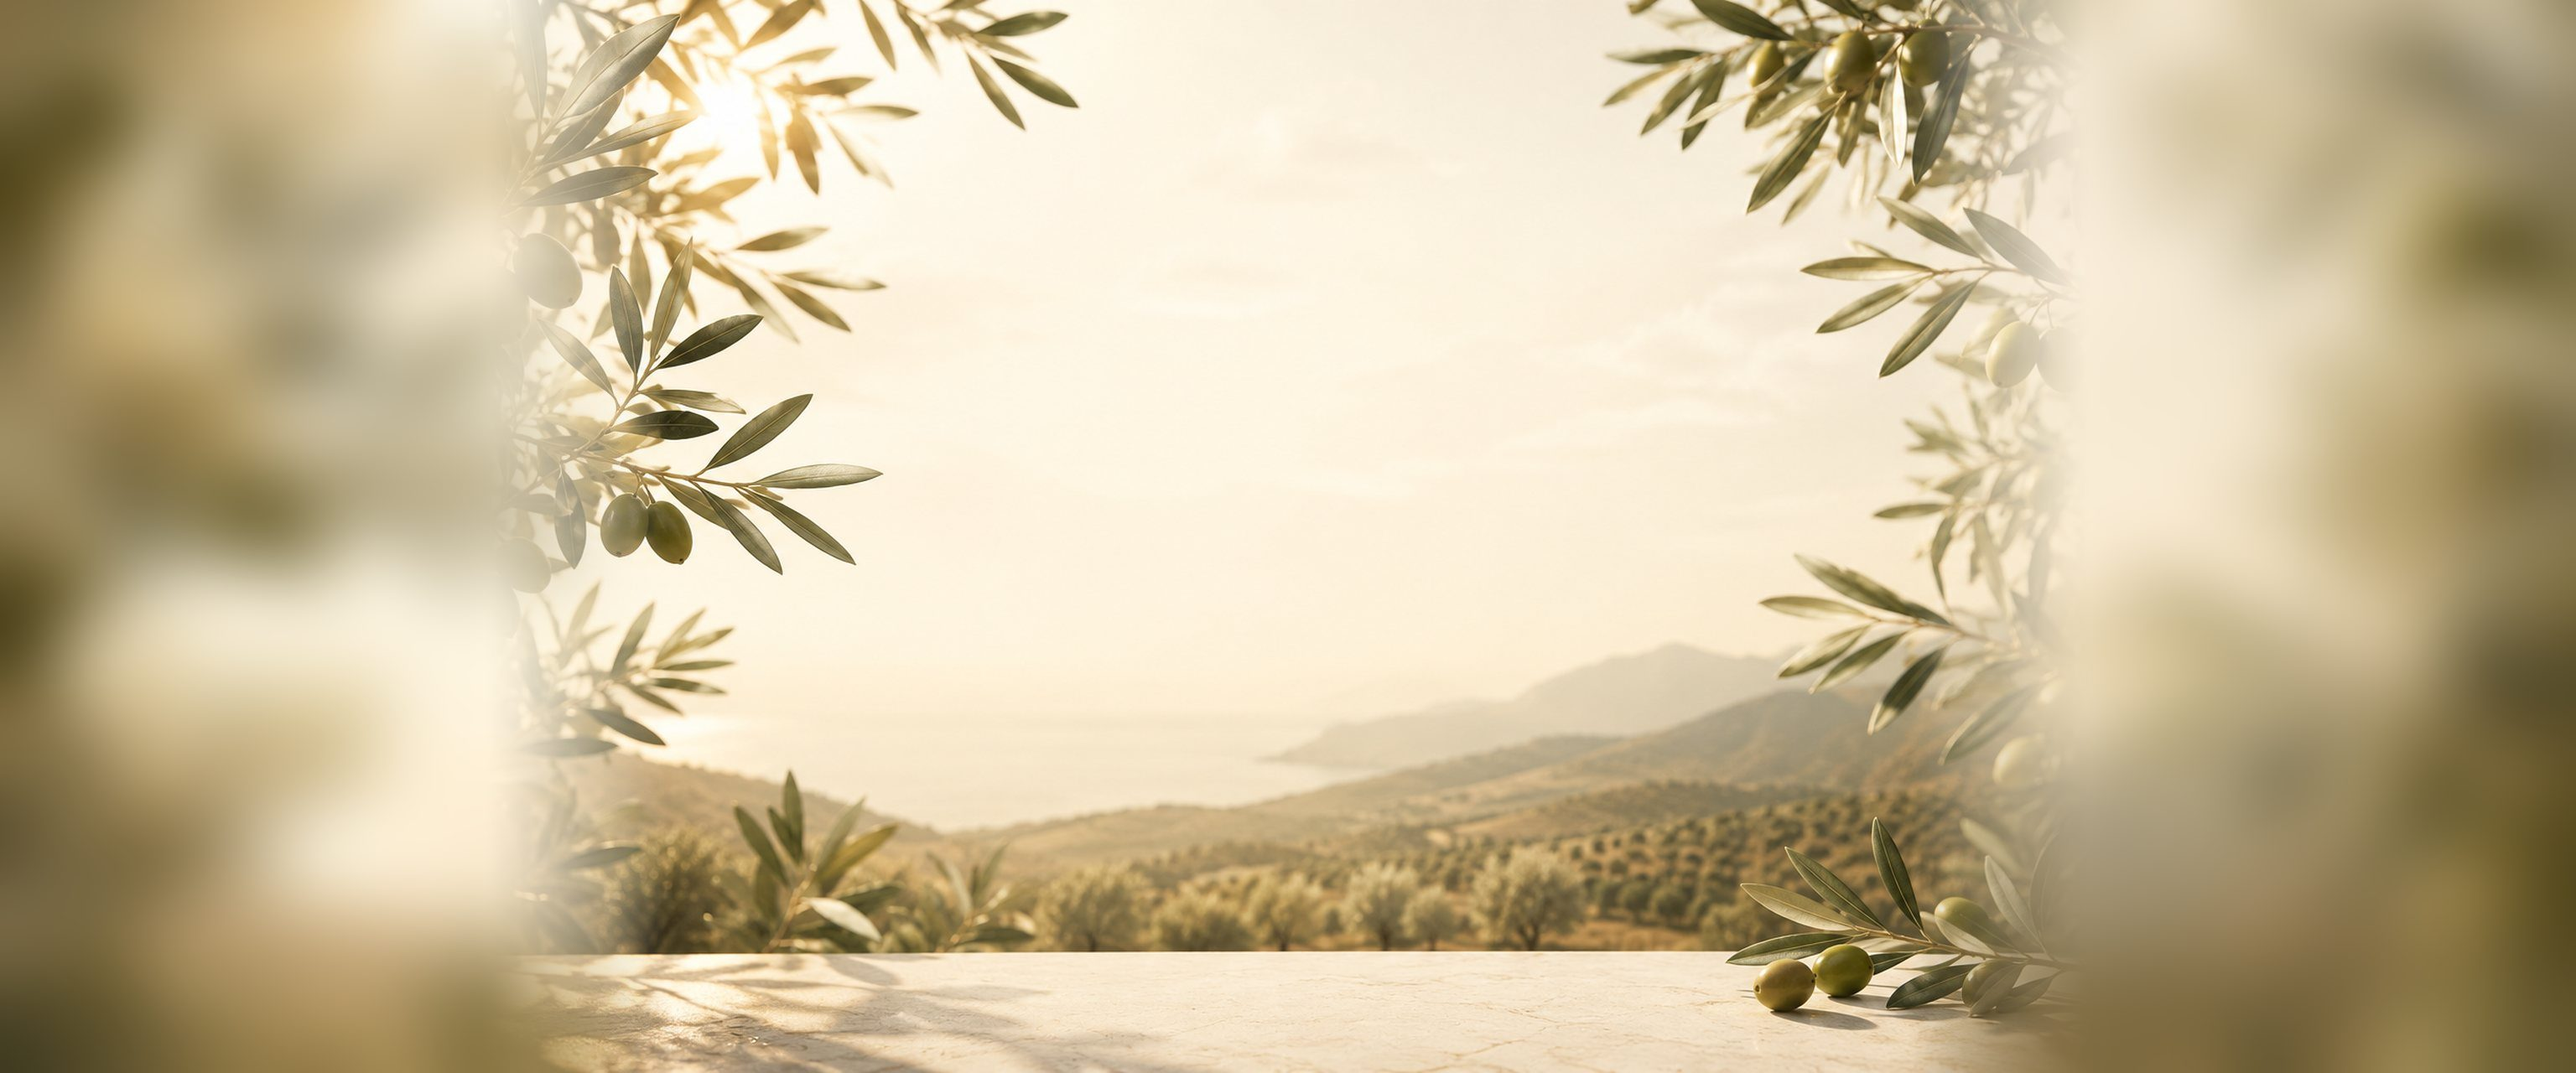
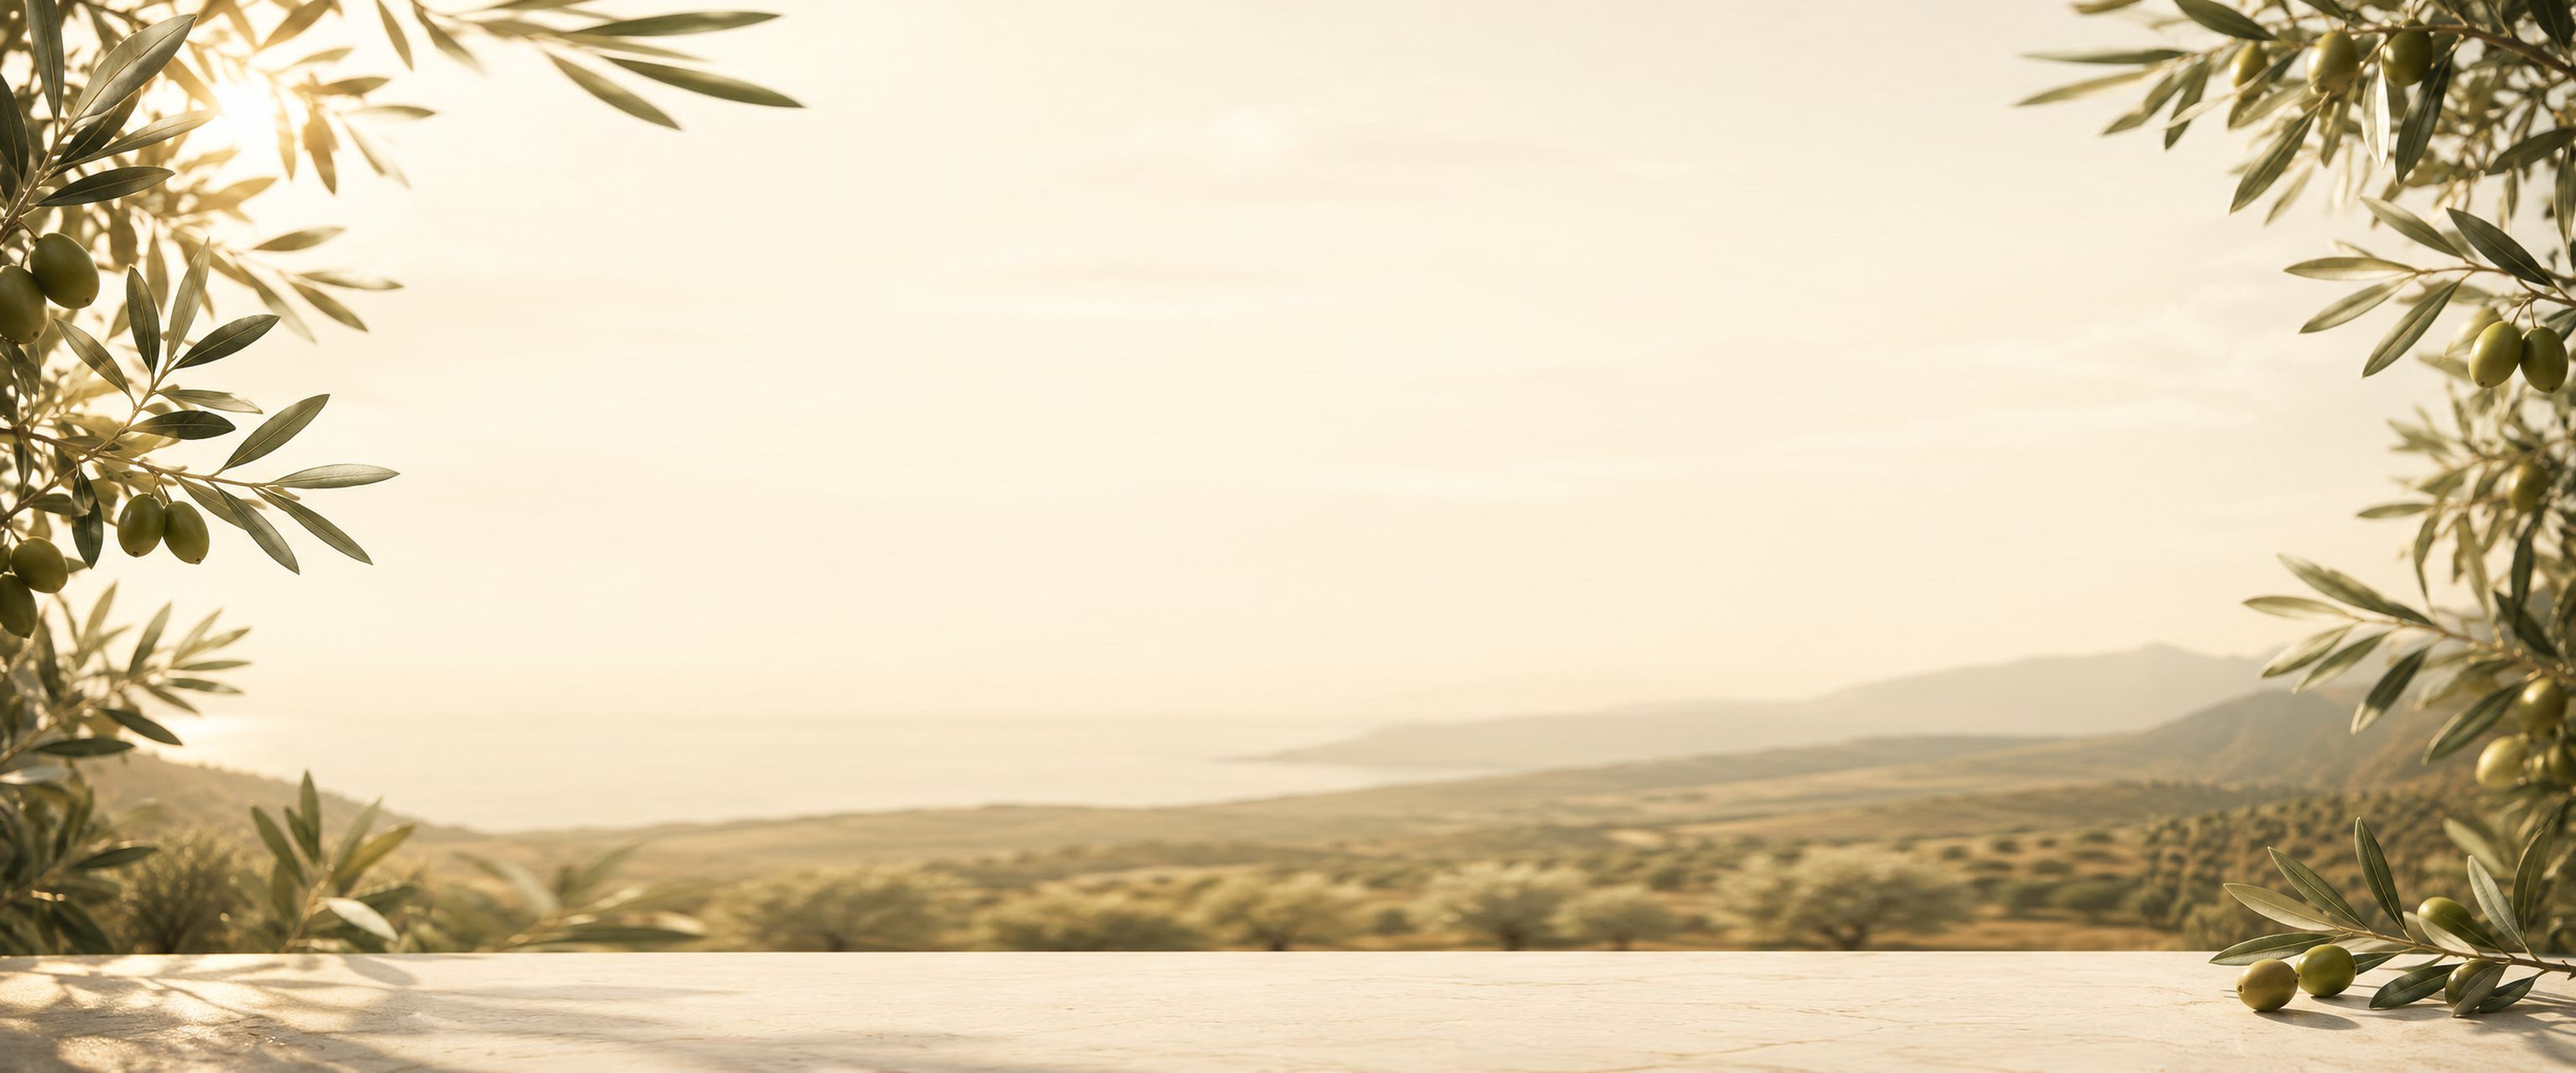
Keep the olive branches at the screen edges
The wide variant is now a nine-slice stretch rather than a blurred extension:
the branch masses on either side keep their own scale and only the middle
band — sky, sea, hills, stone ledge — is stretched to fill the extra width.
Nothing about the leaves is distorted and the landscape stays intact, so the
branches sit right at the edge of a wide screen.

Two other approaches were built and rejected by looking at them: mirroring the
edges repeated the branches in a visibly symmetrical way, and a blurred fill
left soft grey bands where sharp leaves belonged. A third attempt pasted
branch strips over a stretched base and ghosted where the two overlapped.

The tall variant invents nothing: it is a straight portrait crop holding the
left branch mass and the view. On a phone the right-hand branches fall outside
the frame — a portrait photograph is the real fix for that, not more
fabrication.

diff --git a/src/lib/images.ts b/src/lib/images.ts
@@ -27,9 +27,16 @@ const PHOTO = {
    * Two crops are derived from it because one aspect cannot serve both a wide
    * desktop and a phone: filling a 2.3:1 window from the 3:2 original cropped
    * 36% off the top and bottom and took the framing branches with it, and a
-   * phone lost 69% sideways. Each variant extends the original with a blurred
-   * copy of itself rather than mirroring, which would repeat the branches
-   * visibly. `hero-grove.jpg` stays as the master the two are cut from.
+   * phone lost 69% sideways.
+   *
+   * The wide variant is a nine-slice stretch: the branch masses at either side
+   * keep their own scale and only the middle band — sky, sea, hills, ledge —
+   * is stretched, so nothing about the leaves is distorted. Mirroring and
+   * blurred fills were both tried first and looked obviously fabricated.
+   *
+   * The tall variant invents nothing at all: it is a straight portrait crop
+   * that keeps the left branch mass and the view. On a phone the right-hand
+   * branches fall outside the frame; a portrait photograph would fix that.
    */
   bahceIsik: '/images/hero-grove.jpg',
   bahceGenis: '/images/hero-grove-wide.jpg',
